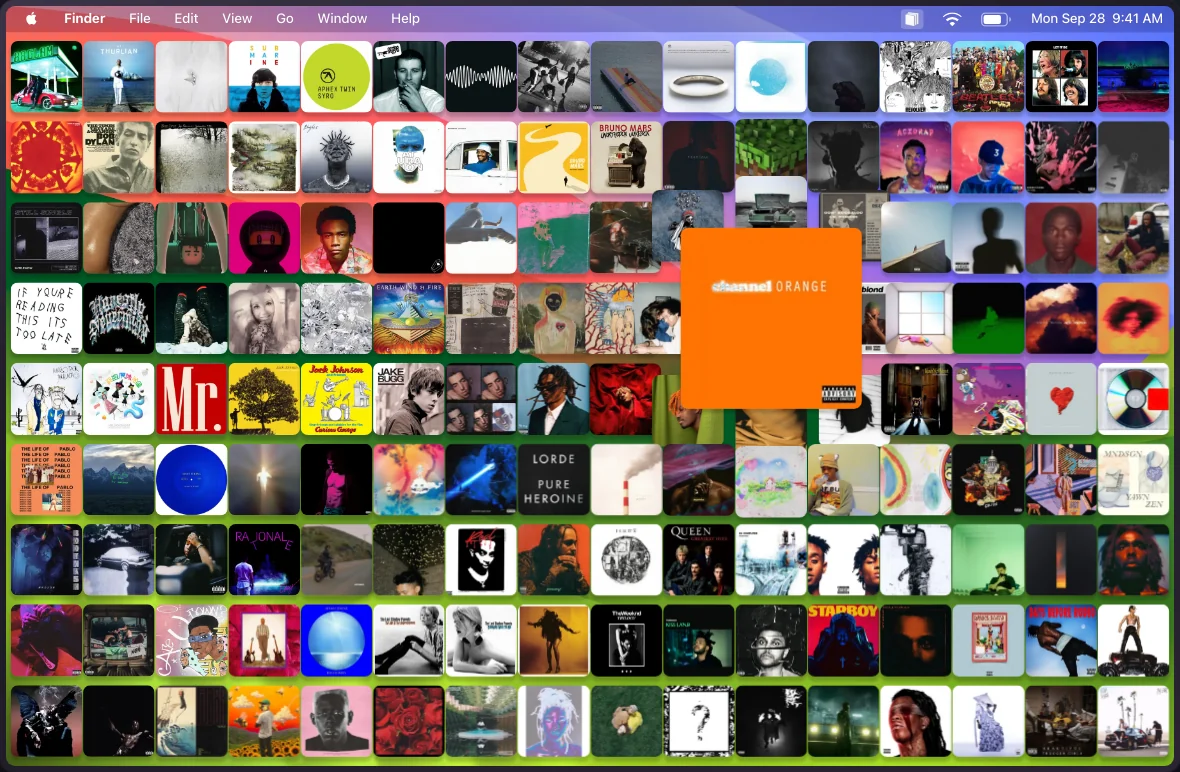
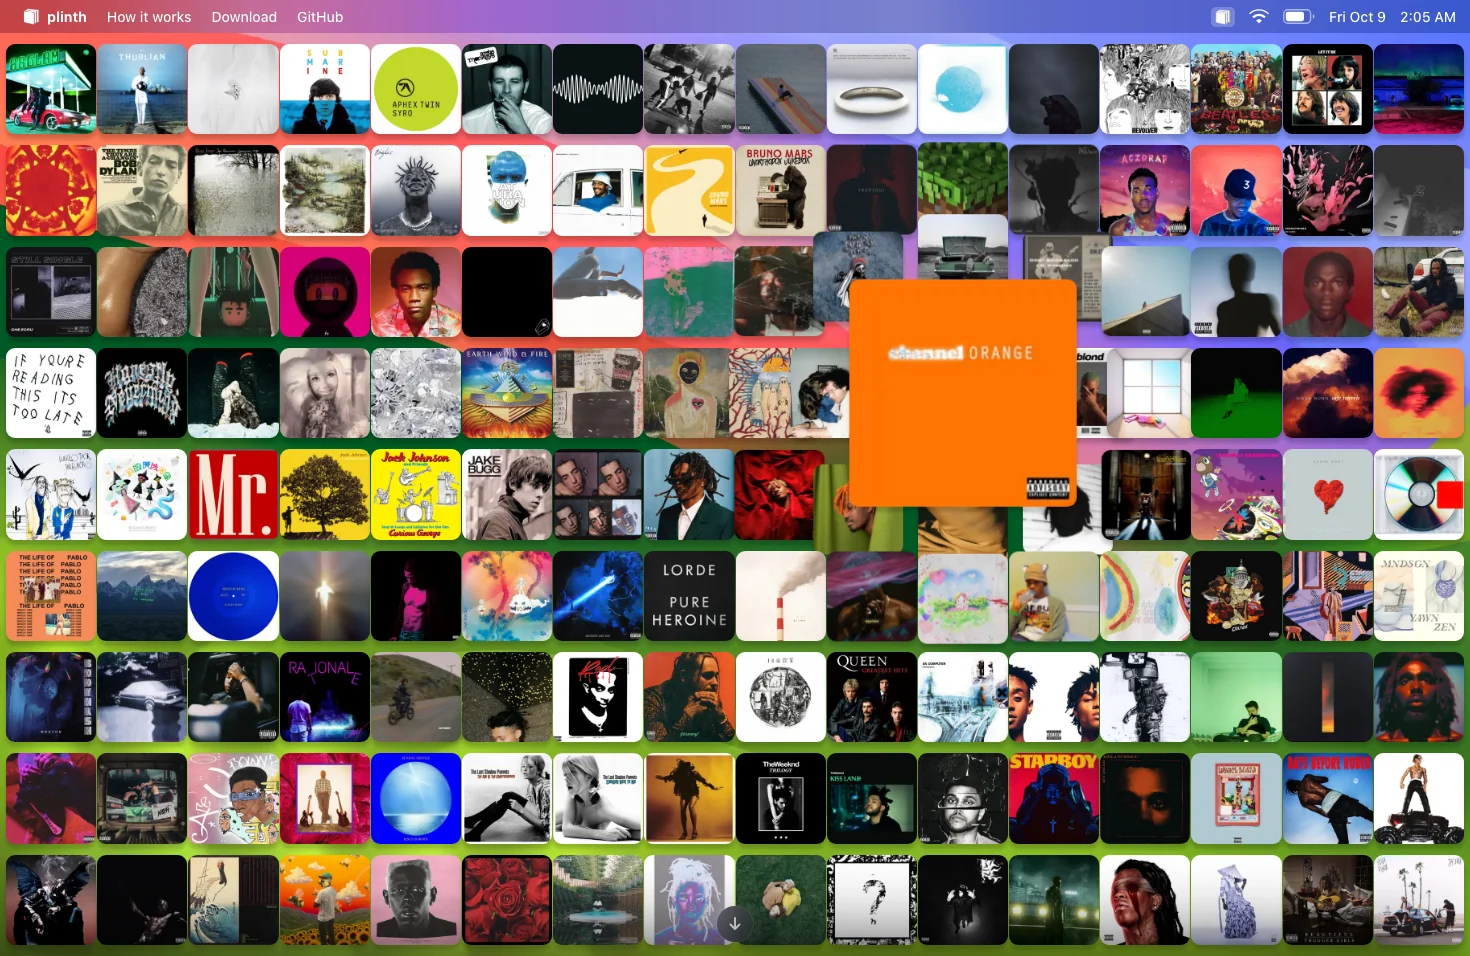
Capture the website's full-screen desktop for the README hero
The website's first screen is now a full-viewport Plinth desktop. Capture it
at 1470x956 (16 columns, 9 rows) with the intro window closed.

diff --git a/tests/screenshots.spec.ts b/tests/screenshots.spec.ts
@@ -57,7 +57,9 @@ test('light-mode Collection and Stats captures', async ({ page }) => {
  await sharp(await page.screenshot({ fullPage: true, animations: 'disabled' })).webp({ quality: 86, effort: 6 }).toFile(`${output}/stats.webp`)
 })
 
+// The website's first screen is a full-viewport desktop; the app's 1470×956 screen lays out 16 columns and 9 rows.
 async function openWebsite(page: Page, albumCount?: number) {
+ await page.setViewportSize({ width: 1470, height: 956 })
  const mime: Record<string, string> = { '.html': 'text/html', '.js': 'application/javascript', '.webp': 'image/webp', '.png': 'image/png', '.jpg': 'image/jpeg' }
  await page.route('http://plinth-preview.local/**', async route => {
   const pathname = new URL(route.request().url()).pathname
@@ -76,10 +78,12 @@ test('website desktop preview hero', async ({ page }) => {
  test.skip(!websitePath, 'Set PLINTH_SCREENSHOT_WEBSITE to capture the website preview')
  // Capture the website unchanged: it already contains exported local albums and their covers.
  await page.emulateMedia({ colorScheme: 'light' })
- await page.setViewportSize({ width: 1550, height: 1200 })
  await openWebsite(page)
  await expect(page.locator('#stage .cell')).toHaveCount(144)
- await page.locator('.screen').scrollIntoViewIfNeeded()
+ // Close the intro window the way a visitor would so every cover shows.
+ await expect(page.locator('#win.open')).toBeVisible()
+ await page.getByRole('button', { name: 'Close window' }).click()
+ await expect(page.locator('#win')).toHaveCSS('opacity', '0')
  await page.evaluate(async () => {
   await document.fonts.ready
   await Promise.all(Array.from(document.querySelectorAll<HTMLImageElement>('#stage img')).map(image => image.decode()))
@@ -96,7 +100,7 @@ test('website desktop preview hero', async ({ page }) => {
  await expect.poll(async () => hovered.locator('img').evaluate(image => image.getBoundingClientRect().width / image.parentElement!.getBoundingClientRect().width)).toBeGreaterThan(2.4)
  await page.waitForTimeout(400)
  await mkdir(output, { recursive: true })
- await sharp(await page.locator('.screen').screenshot({ animations: 'disabled' }))
+ await sharp(await page.screenshot({ animations: 'disabled' }))
   .webp({ quality: 86, effort: 6 }).toFile(`${output}/hero.webp`)
 })
 

diff --git a/README.md b/README.md
@@ -20,7 +20,7 @@ Plinth is a macOS app that turns your album artwork into an interactive desktop 
 
 ![Release-date charts and library stats in light mode](docs/screenshots/stats.webp)
 
-The hero captures the website’s Mac desktop preview unchanged: its exported local albums, 16 columns, 9 rows, and hover enlargement. Collection and Stats also show the local album collection; only rendered screenshots are included, not library databases or original artwork files.
+The hero captures the website’s full-screen Mac desktop unchanged at 1470×956, with its intro window closed: its exported local albums, 16 columns, 9 rows, and hover enlargement. Collection and Stats also show the local album collection; only rendered screenshots are included, not library databases or original artwork files.
 
 ## Use it
 
